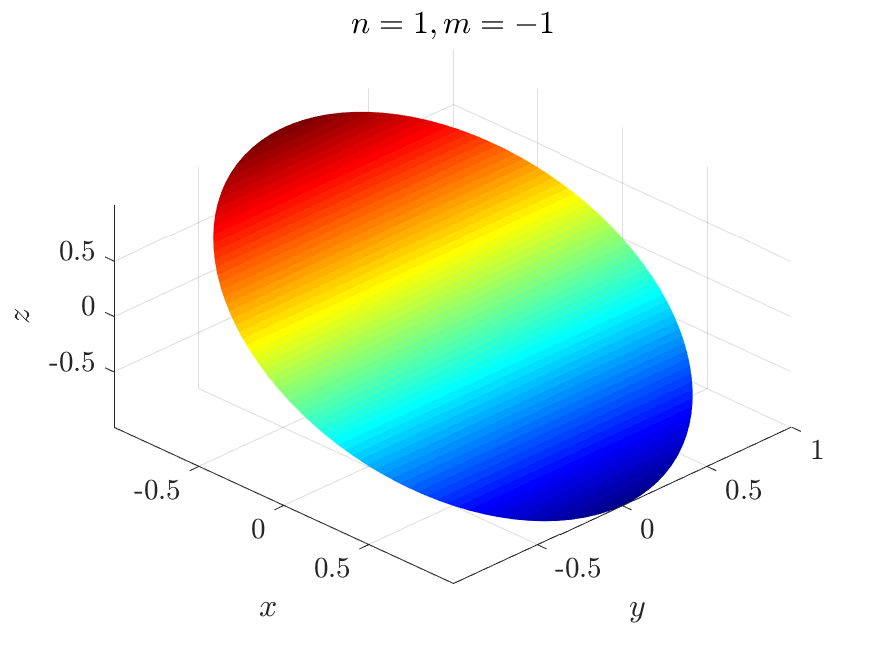
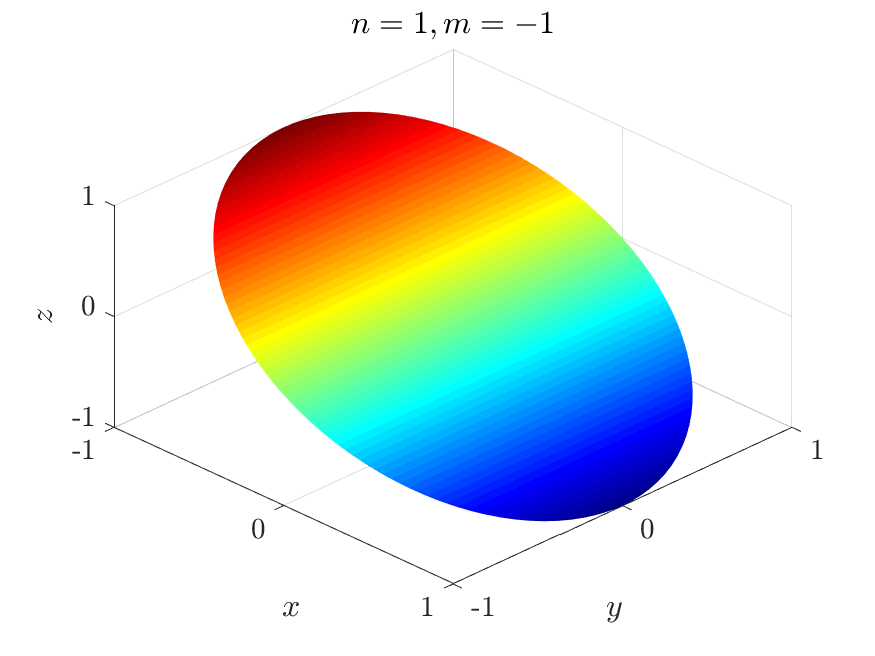
Generalise zernike fitting

diff --git a/Main code/Zernike_coef_fit.m b/Main code/Zernike_coef_fit.m
@@ -18,51 +18,103 @@ savefile = 'LensExample.mat';
 load(strcat('C:\Users\Buijssen\Documents\GitHub\Bachelor-s-Thesis\Data/',savefile));
 l_OA = ER(1,1,3); % length of optical axis
 
-%% extend lens to negative y plane
-N_lens = extend_to_neg(N_lens);
-X_lens = extend_to_neg(X_lens);
+%% Input handling
+% % extend lens to negative y plane
+% N_lens = extend_to_neg(N_lens);
+% X_lens = extend_to_neg(X_lens);
 
 % update length of N
 l_N = length(N_lens);
 
-% figure(1);
-% plot_points(N_lens,'ok')
+%% Plotting
+% Plot raw data
+figure(1); movegui('east');
+plot_points(N_lens,'ok')
+plot_points(X_lens,'ok')
+hold on;
+xlim([0,30])
+ylim([-2,2])
+grid minor
 
-f = zeros(1,l_N);
-r = f;
+%% Fitting
+% create empty vectors
+surface = zeros(1,l_N);
+r       = zeros(1,l_N);
 
-f(1,:) = N_lens(1,:,:);
-r_0(1,:) = N_lens(2,:,:);
-r(1,:) = N_lens(2,:,:)/max(r_0);
+% The zernike polynomials are defined on a disc with radius 1. Therefore we
+% search for a represenation such that z = surface(r) such that |r| <= 1.
+[surface_N, r_N, r_max_N] = extract_points(N_lens);
+[surface_X, r_X, r_max_X] = extract_points(X_lens);
+% r_max_N = max(N_lens(2,:,:));   % find maximum radius element
+% r_max_X = max(X_lens(2,:,:));   % find maximum radius element
+% 
+% r_N(1,:) = N_lens(2,:,:)/r_max_N; % get normalised radius points
+% r_X(1,:) = N_lens(2,:,:)/r_max_X; % get normalised radius points
 
-r = r(1:end-1);
-f = f(1:end-1);
-l_N = l_N-1;
-
-figure(2);
-plot(r,f,'ko')
+% plot raw datapoints
+figure(2); movegui('northeast');
+plot(r_N*r_max_N,surface_N,'ko')
 hold on
-r_int = linspace(-1,1,1e3);
-f_int = interp1(r,f,r_int,'spline');
+plot(r_X*r_max_X,surface_X,'ko')
 
-r = r_int;
-f = f_int;
+% set amount of interpolated points
+n_interpolation = 1e3;
+
+% get interpolated points
+[r_interpolated_N, surface_interpolated_N] = ...
+    interpol(surface_N, r_N,0,1,n_interpolation);
+
+[r_interpolated_X, surface_interpolated_X] = ...
+    interpol(surface_X, r_X,0,1,n_interpolation);
+
+% plot interpolation
+figure(1);
+plot(surface_interpolated_N,r_max_N*r_interpolated_N,'-r')
+plot(surface_interpolated_X,r_max_X*r_interpolated_X,'-r')
 
 m = 0;
 for n = 0:2:6
     double2single_index(n,m);
-    a_vec(double2single_index(n,m)+1) = zernikecoef(n,m,r,f);
+    a_vec_N(double2single_index(n,m)+1) = zernikecoef(n,m,r_interpolated_N,surface_interpolated_N); %#ok<SAGROW>
+    a_vec_X(double2single_index(n,m)+1) = zernikecoef(n,m,r_interpolated_X,surface_interpolated_X); %#ok<SAGROW>
 end
 
-r_prime = 0:0.01:max(r);
-for j = 0:(length(a_vec)-1)
-    [n,m] = single2double_index(j);
-    rad_mat(j+1,:) = a_vec(j+1)*R(n,m,r_prime);
-end
-rad = sum(rad_mat,1);
+r_plot = 0:0.01:1;
+% for j = 0:(length(a_vec)-1)
+%     [n,m] = single2double_index(j);
+%     rad_mat(j+1,:) = a_vec(j+1)*R(n,m,r_plot);
+% end
+% rad = sum(rad_mat,1);
 
-plot(r_prime,rad,'r')
+surface_zernike_N = coef2surf(a_vec_N,r_plot);
+surface_zernike_X = coef2surf(a_vec_X,r_plot);
+
+% plot zernike fit
+figure(2);
+plot(r_plot*r_max_N,surface_zernike_N,'-b')
+plot(r_plot*r_max_X,surface_zernike_X,'-b')
 %%
+function rad = coef2surf(a_vec,r_plot)
+    for j = 0:(length(a_vec)-1)
+        [n,m] = single2double_index(j);
+        rad_mat(j+1,:) = a_vec(j+1)*R(n,m,r_plot);
+    end
+    rad = sum(rad_mat,1);
+end
+
+function [surface, r, r_max] = extract_points(lens)
+    surface(1,:) = lens(1,:,:); % get scalar values for lens surface
+    r_max = max(lens(2,:,:));   % find maximum radius element
+    r(1,:) = lens(2,:,:)/r_max; % get normalised radius points
+end
+
+function [r_interpolated, surface_interpolated] = ...
+    interpol(surface, r,r_int_min,r_int_max,n_interpolation)
+
+    r_interpolated = linspace(r_int_min,r_int_max,n_interpolation);
+    surface_interpolated = interp1(r,surface,r_interpolated,'spline');    
+end
+
 function in = extend_to_neg(in)
     in2 = in;
     in2(2,:,:) = -in(2,:,:);

diff --git a/Plotting code/Zernike_Surfaces.m b/Plotting code/Zernike_Surfaces.m
@@ -123,7 +123,6 @@ for i = 1:(n_max+1)
         view(45,45)
         title(title_text)
         grid on
-        axis tight
         ind = ind + 1;
         hold off
         
